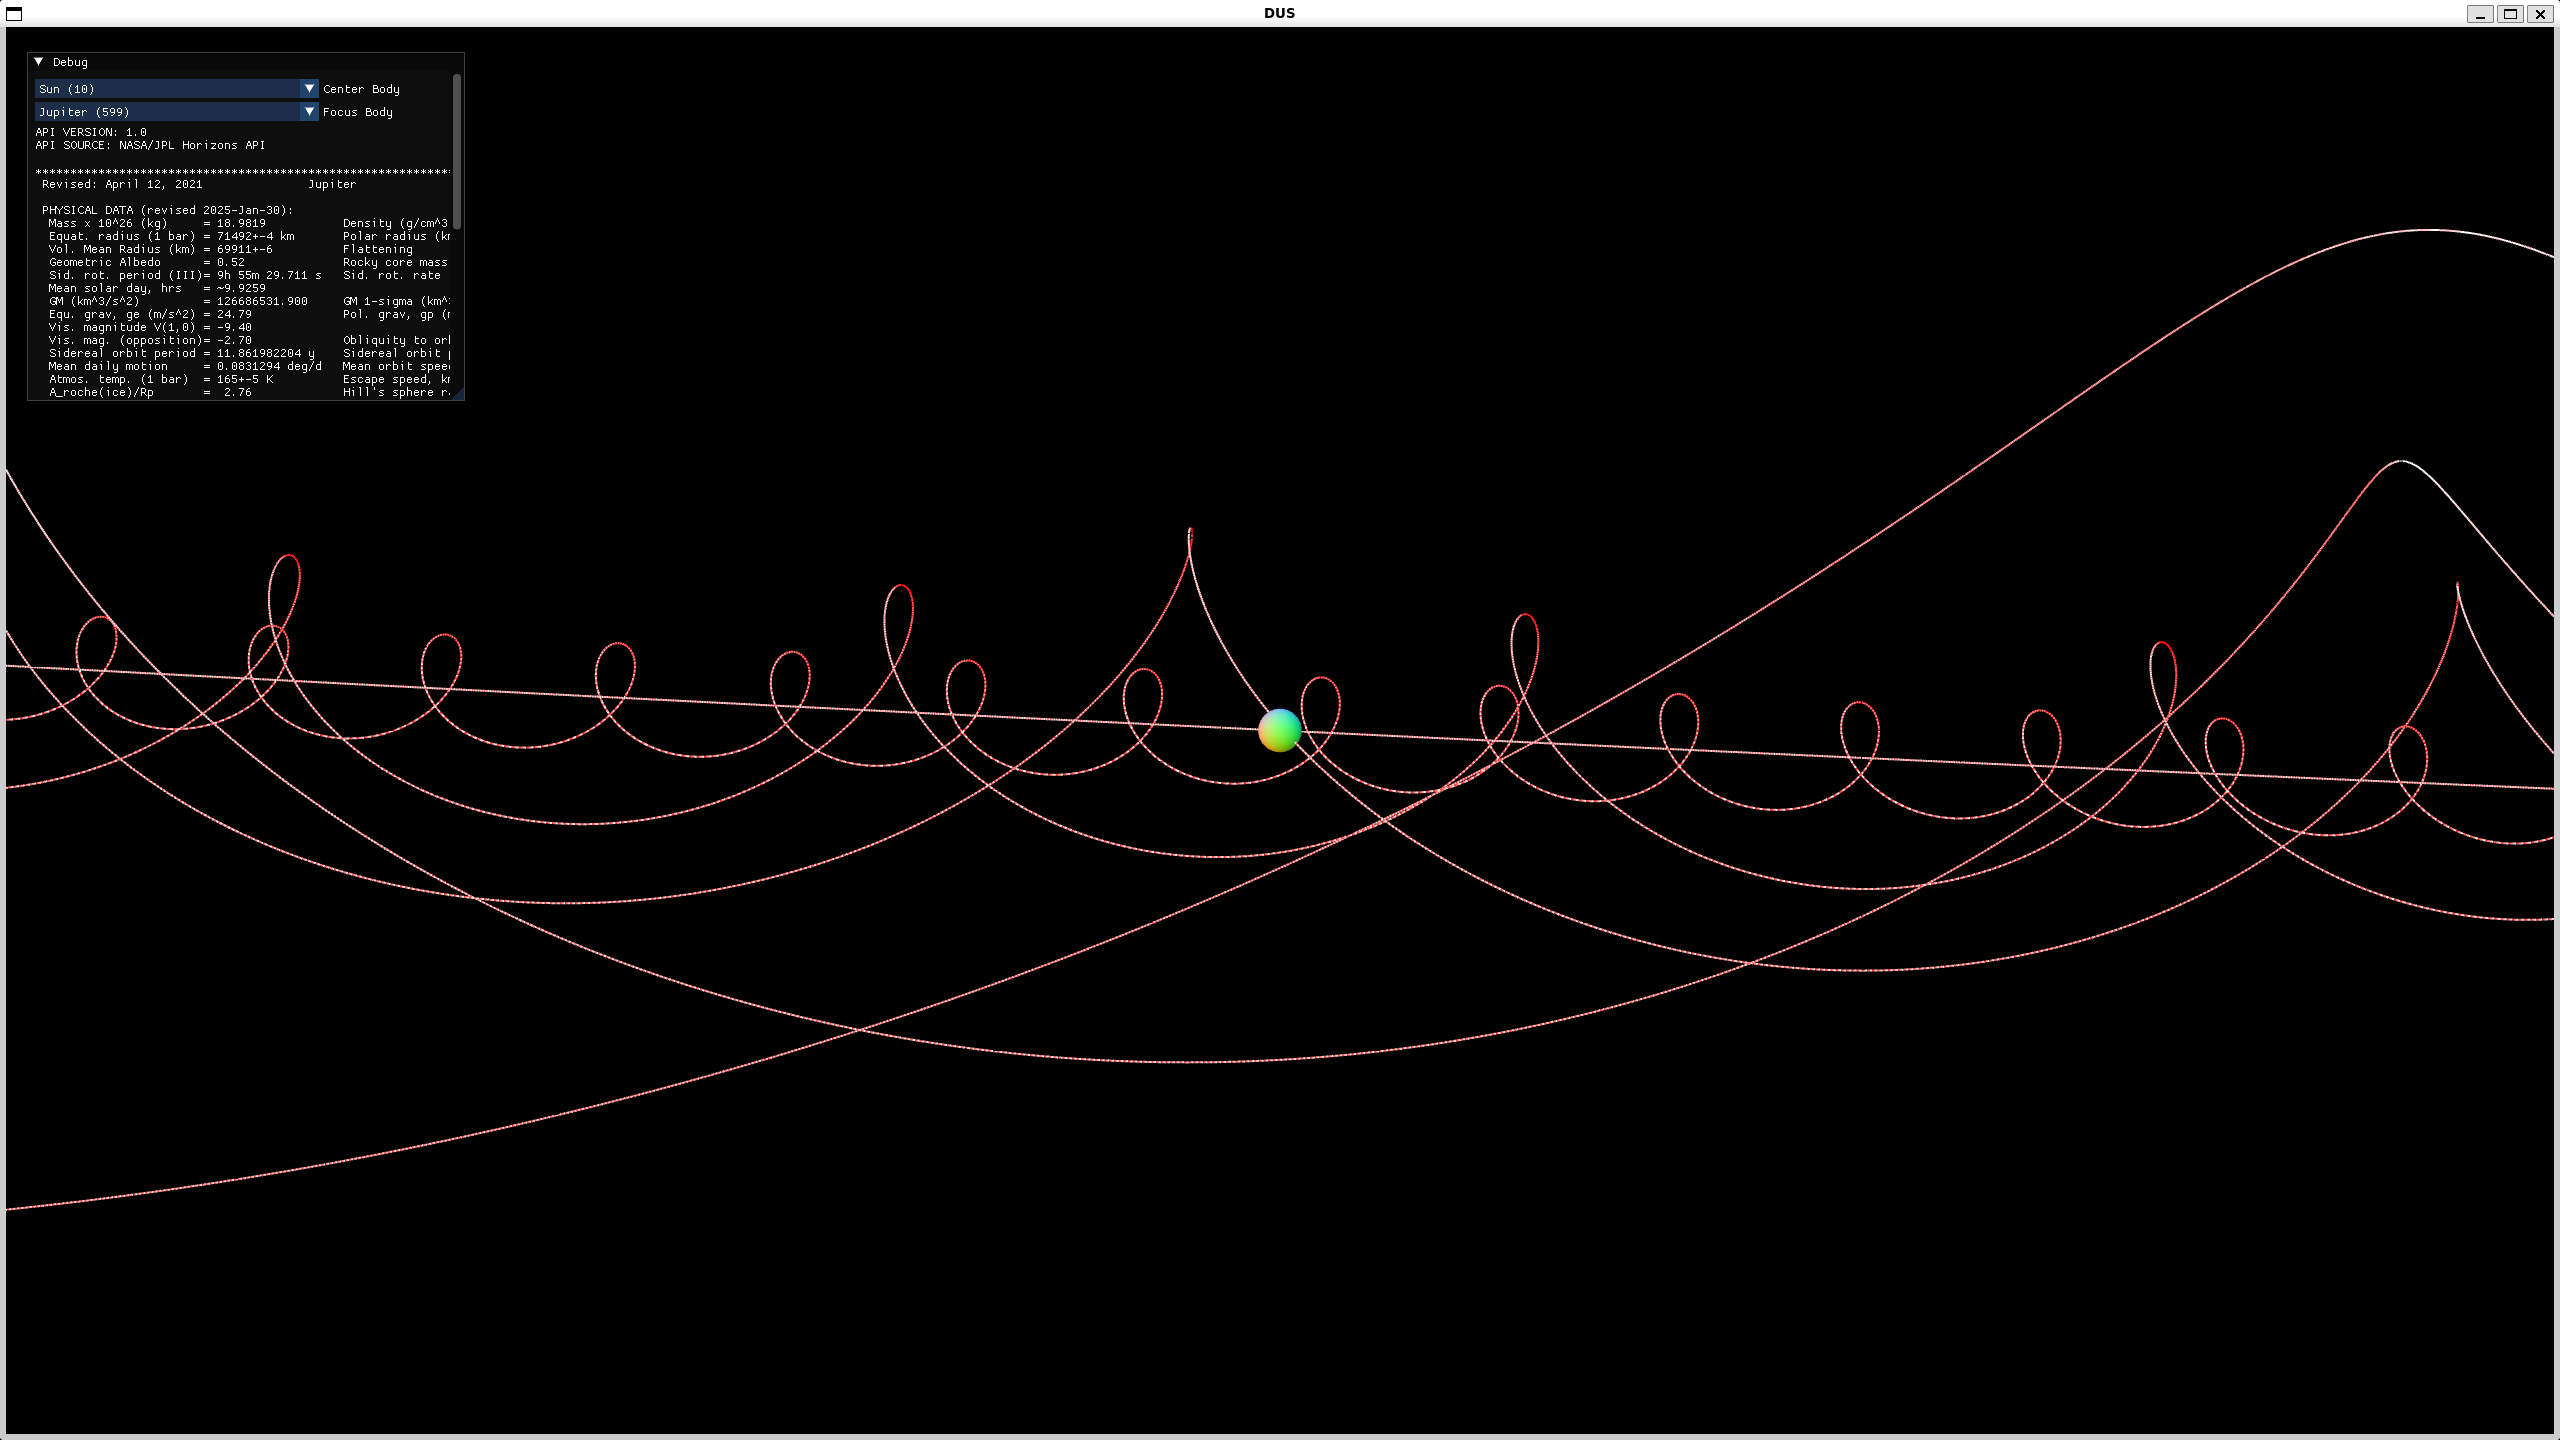
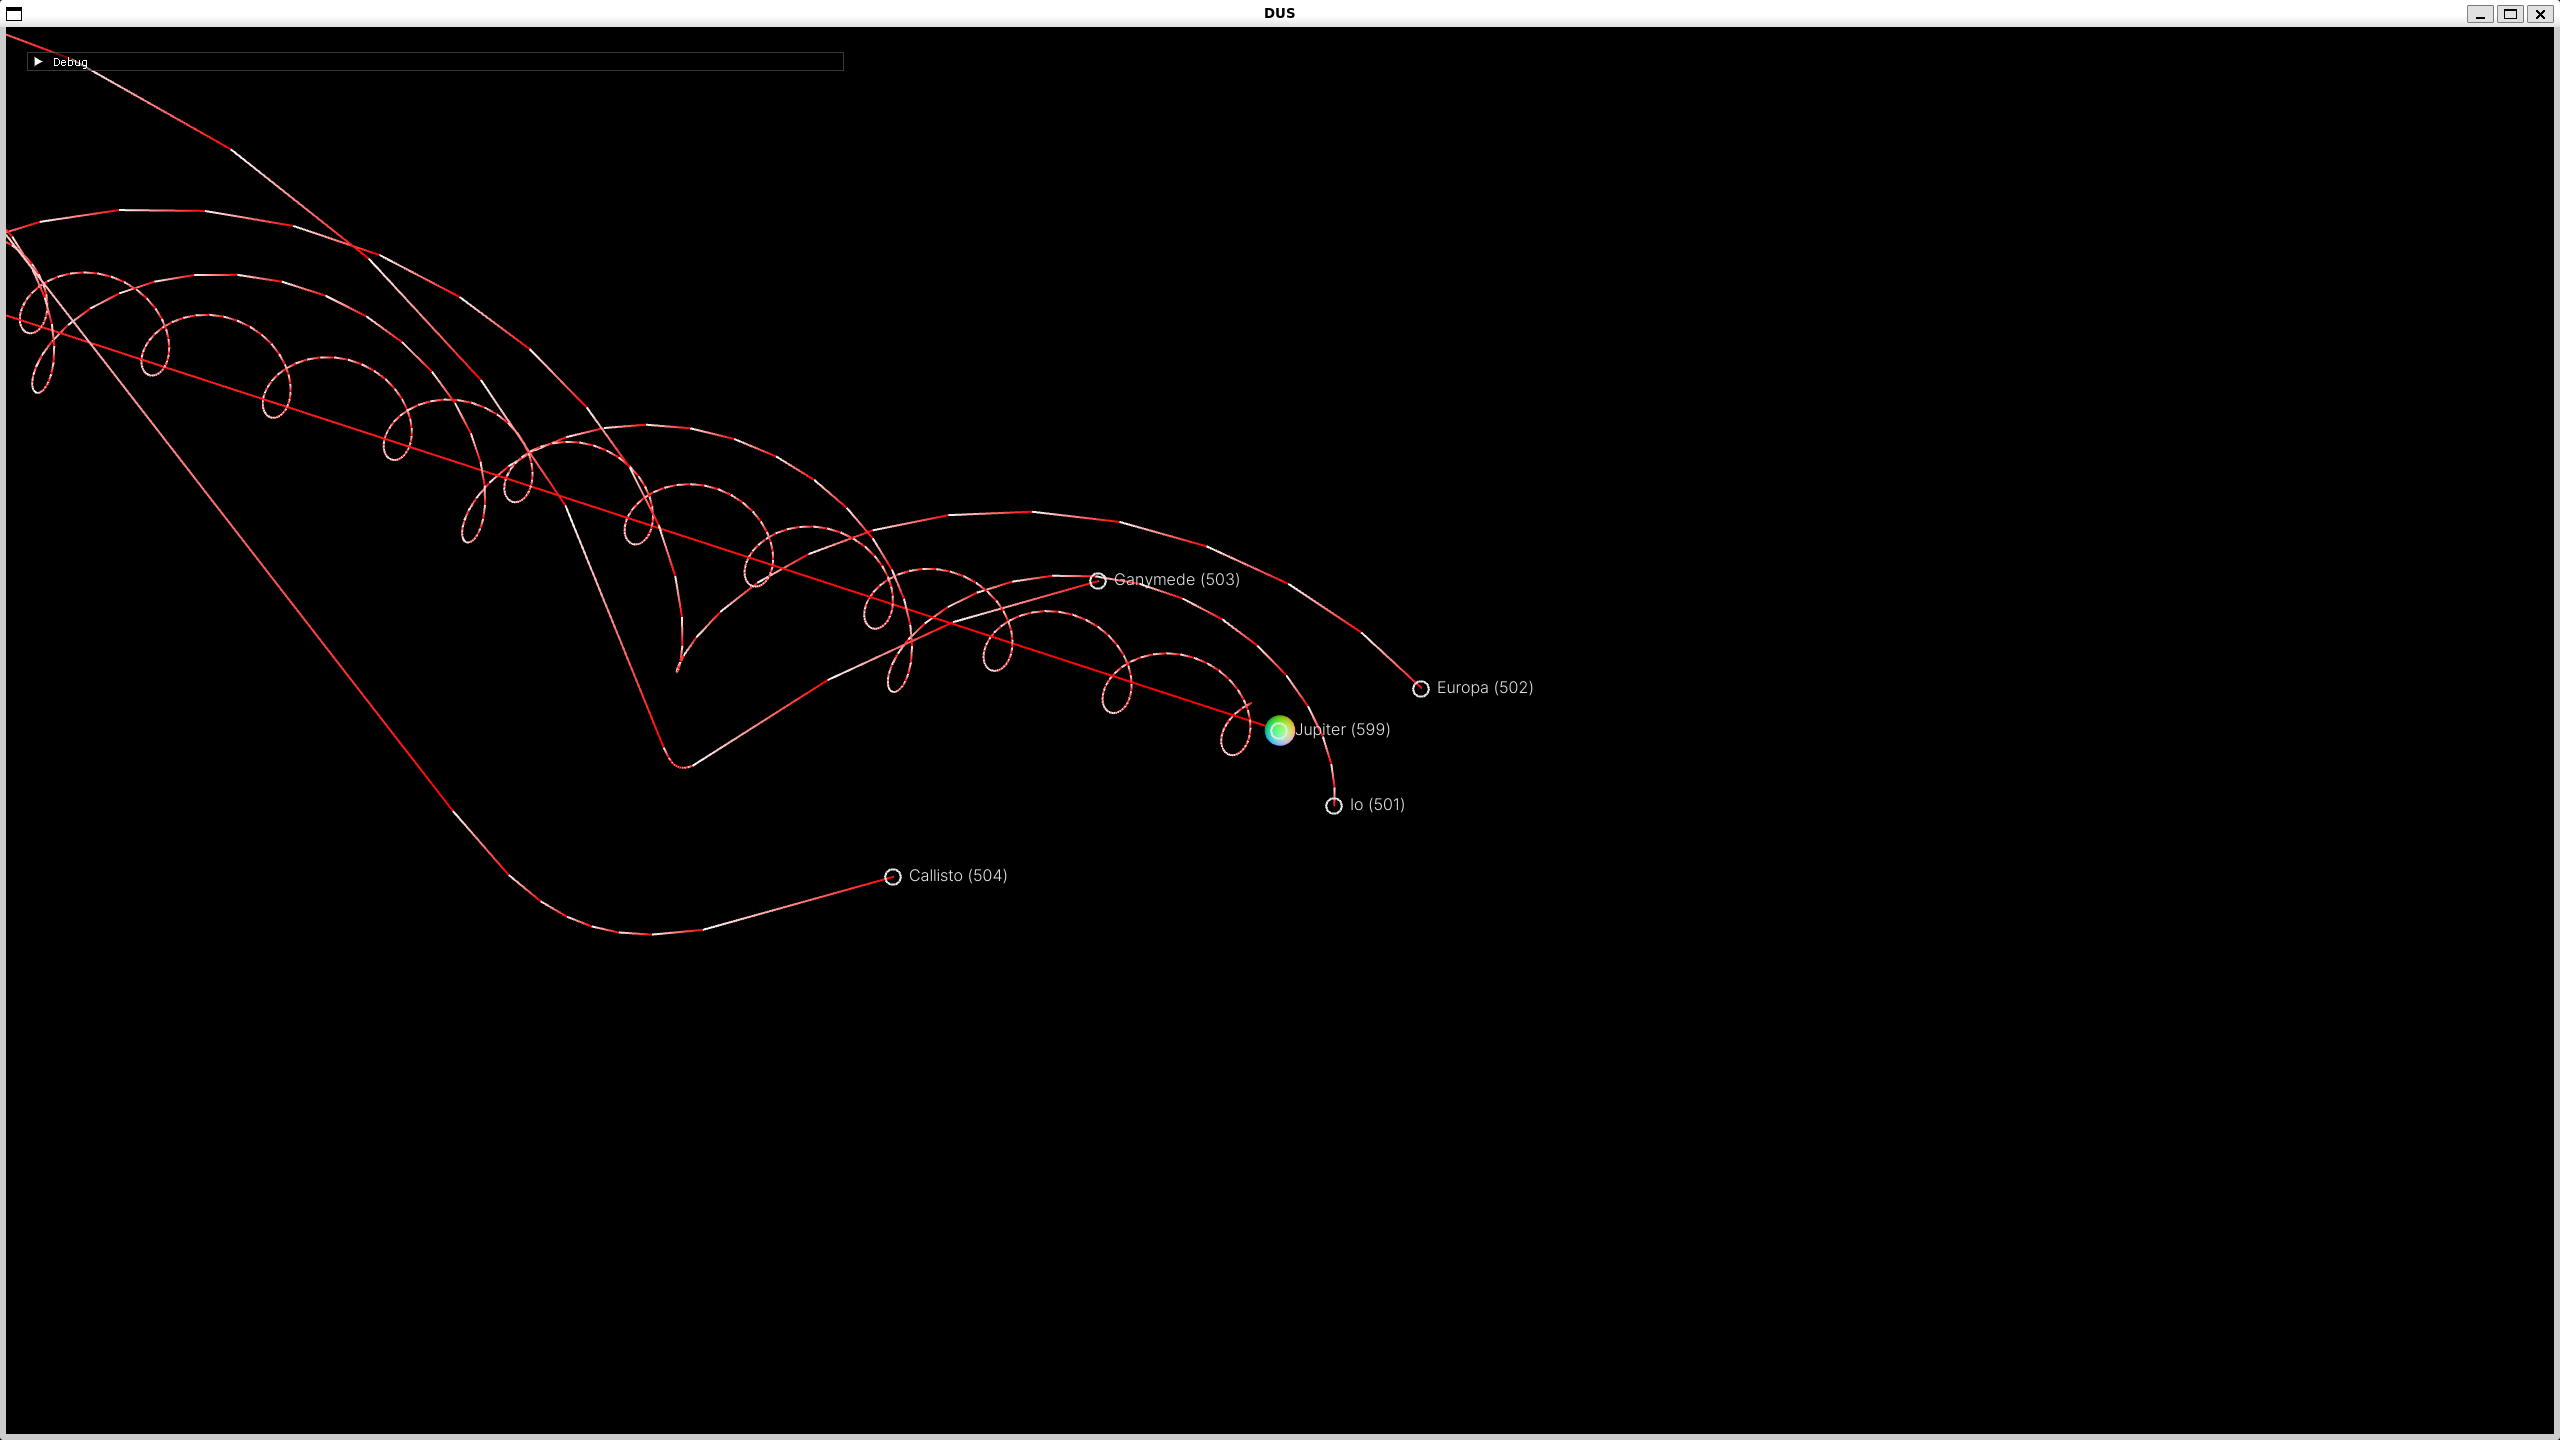
fix shader error, update README
Former-commit-id: ecf36a46da367a06f249f47c1ec40401d2763bb2

diff --git a/src/main.cpp b/src/main.cpp
@@ -296,6 +296,7 @@ int main()
     shaderProgram_text->bind();
     shaderProgram_text->setUniform("projection", glm::ortho(-1.0f, 1.0f, -1.0f, 1.0f));
     glm::mat4 m = glm::ortho(0.0f, static_cast<float>(SCR_WIDTH), 0.0f, static_cast<float>(SCR_HEIGHT));
+    shaderProgram_flat->bind();
     shaderProgram_flat->setUniform("projection", m);
     fmt::print("OpenGL Initialized\n");
     so.genBuffer();

diff --git a/src/basic/celestial.cpp b/src/basic/celestial.cpp
@@ -73,6 +73,6 @@ void calculateTr(std::vector<celestial> &all_bodies, const celestial &ref)
         {
             u.tr_trajectory.push_back(u.trajectory[i] - ref.trajectory[i]);
         }
-        fmt::print("size: {}\n", u.tr_trajectory.size());
+        // fmt::print("size: {}\n", u.tr_trajectory.size());
     }
 }

diff --git a/README.MD b/README.MD
@@ -7,7 +7,8 @@ Now feature in:
 - add more celestial use naif (on dev, directly add into `./data/tracking_bodies.json` works fine)
 - showing trajectories
 - change reference frame
-- change focus body.
+- change focus body
+- display body names
 
 How to use:
 
@@ -30,11 +31,18 @@ curl
 OpenGL with glew glfw3
 fmt: https://github.com/fmtlib/fmt
 Eigen3: https://github.com/OPM/eigen3
+freetype
 ```
 
 Note:
 - your OpenGL must support GLSL version 4.0 or higher. I use 4.3.
 - wish your graphic card can handle fp64 calculation. ;) I haven't figure out how to compress into fp32.
+
+## camera control
+
+Use keyboard `ijkl` to rotate, `nm` for zoom in/out, mouse wheel for change FoV.
+
+direct mouse control will be add in future.
 
 ## Thanks
 
@@ -42,13 +50,15 @@ celestial position data comes from: [JPL SSD](https://ssd.jpl.nasa.gov/)
 
 GUI: [ImGui](https://github.com/ocornut/imgui) (directly included in my repo, for a release version 1.91.8, specific for glew+glfw3)
 
+[inter light font](https://github.com/rsms/inter)
+
 ## Showcases
 
 Jupiter System:
 
 JCI:
 ![](./img/j_j.png)
-SCI():
+SCI:
 ![](./img/s_j.png)
 IO(Jupiter)-CI:
-![](./img/IO_IO.png)
+![](./img/io_j.png)
